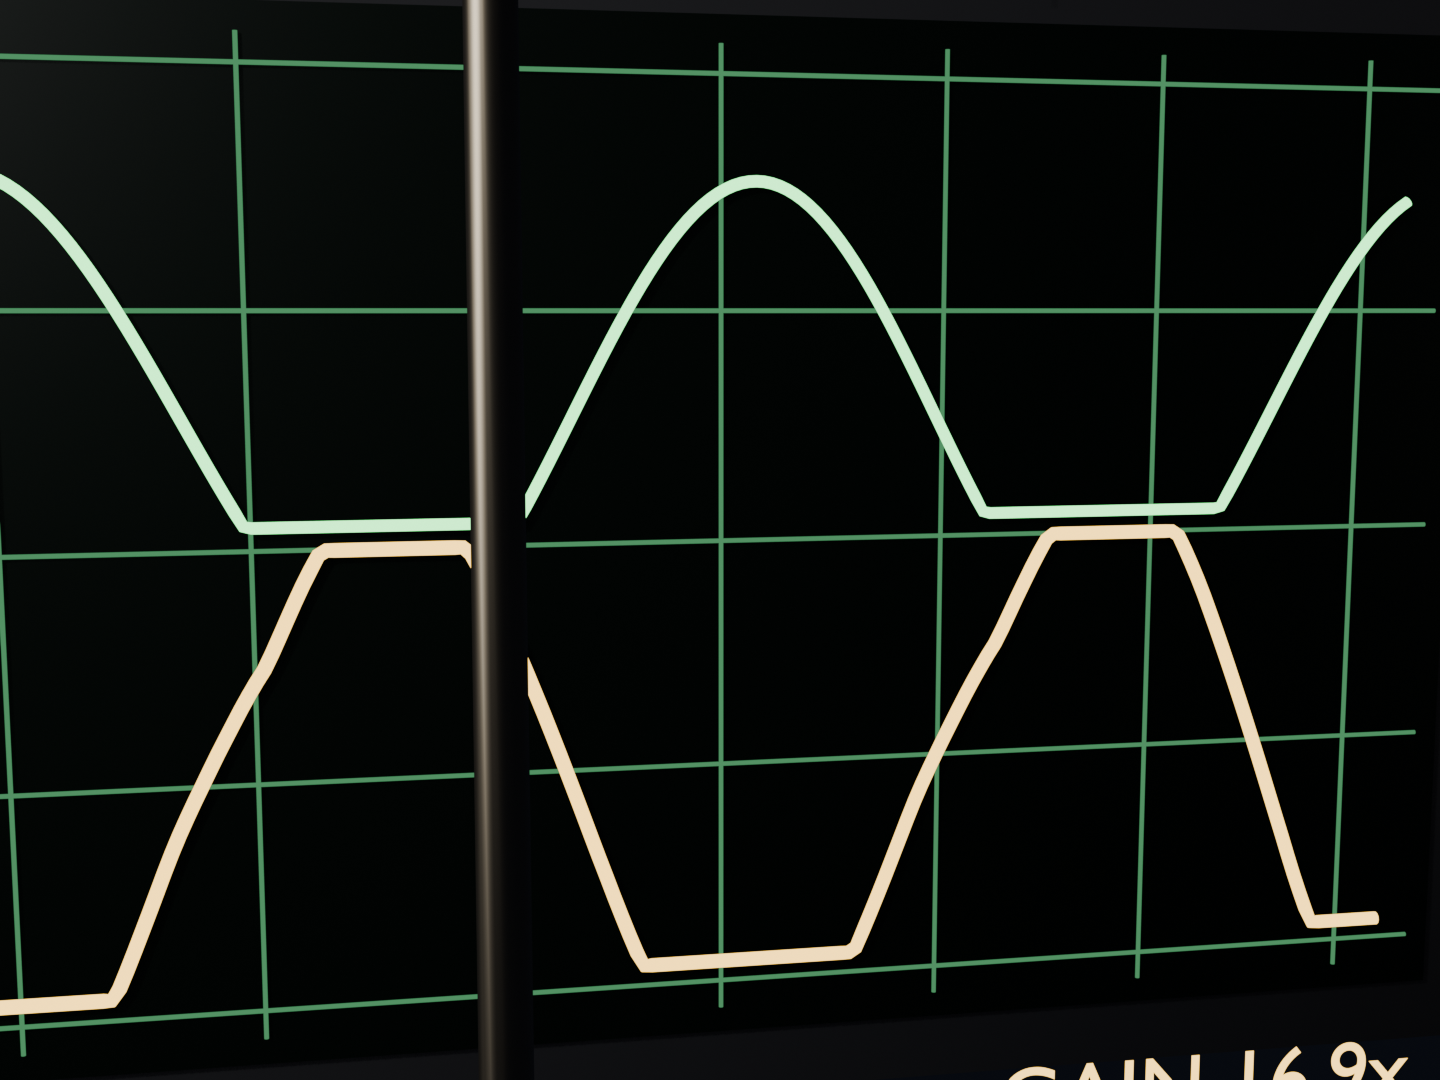
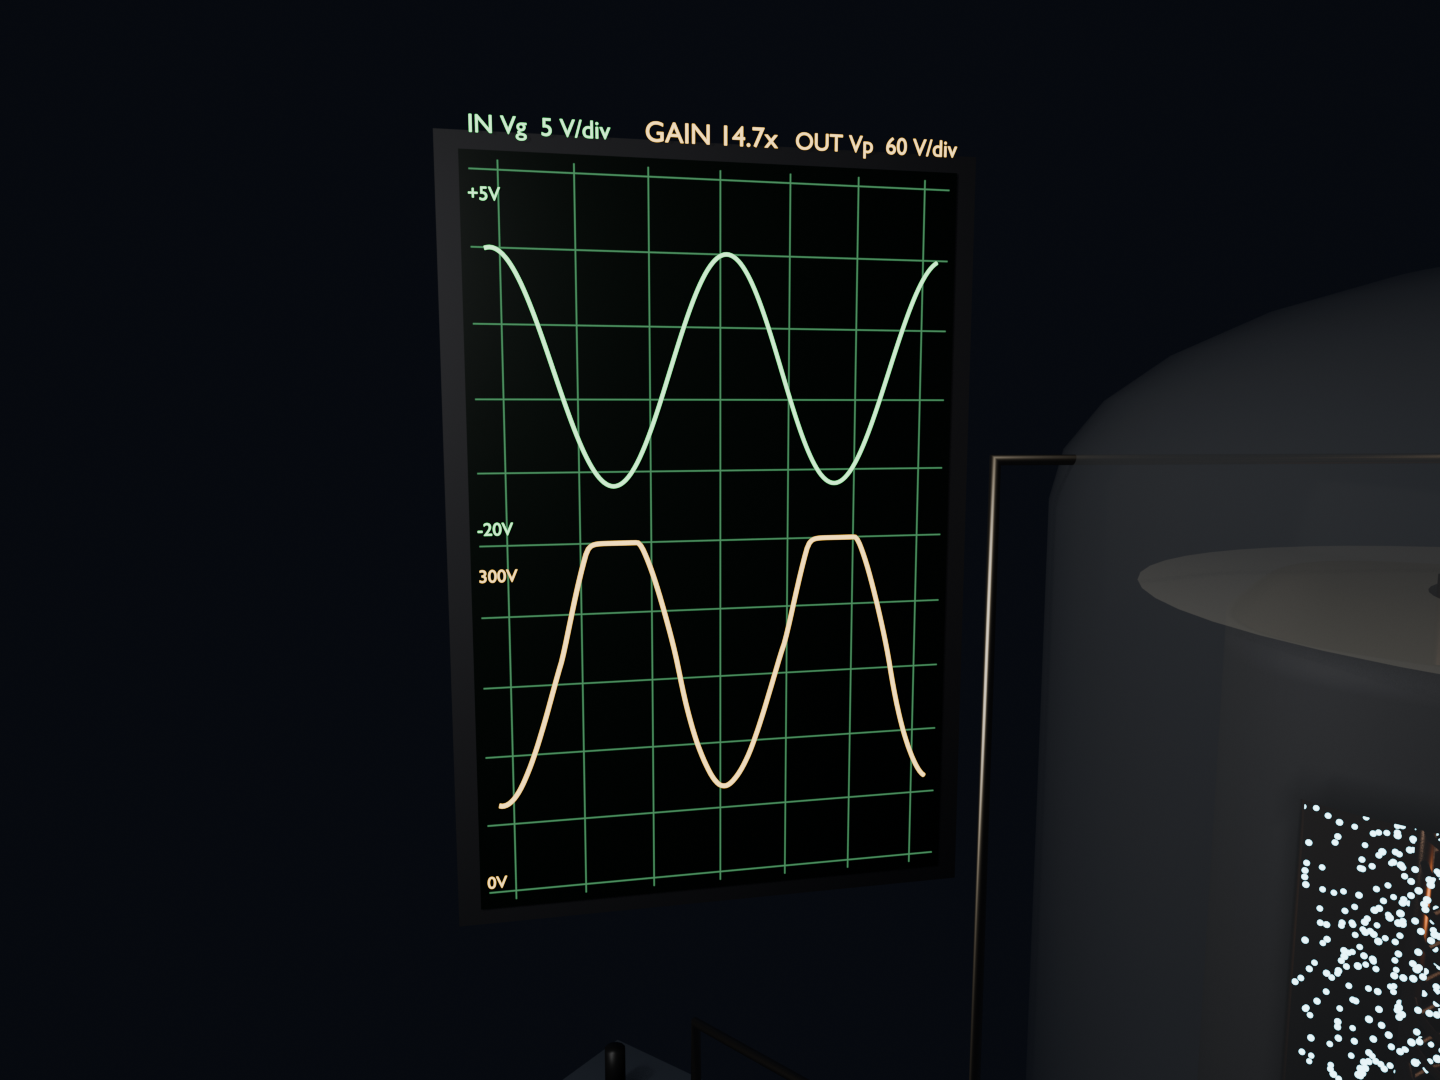
Enlarge scope to 10 divisions with auto-ranging output channel
The output trace could clip off the bottom of the old 4-row screen. The
screen now has 10 grid-aligned divisions split at the center line: input
covers -20..+5 V at 5 V/div on top, output covers the full supply range on
the bottom -- auto-ranging to 0-300 V (60 V/div) when B+ <= 300 and
0-500 V (100 V/div) above, with the on-screen V/div label and axis markers
switching to match. Axis markers sit in the left column clear of the tube,
GAIN moved to the top row, and the generator-to-grid wire is rerouted so it
no longer crosses the taller screen. Clipping still re-shot at -8 V bias
showing true cutoff flat-tops pinned at the 300 V line.

Changed region(s): [[0.0, 0.0, 1.0, 1.0], [0.375, 0.9167, 0.4062, 0.9472]]

diff --git a/amplifier/amplifier_sim.py b/amplifier/amplifier_sim.py
@@ -279,28 +279,29 @@ def _build_scope():
     root = _ob("ScopeRoot")
     if root is None:
         root = _link(bpy.data.objects.new(PREFIX + "ScopeRoot", None))
-    root.location = (-3.9, 0.9, 0.85)
+    root.location = (-3.9, 0.9, 1.15)
     root.rotation_euler = (0.0, 0.0, math.radians(48.0))  # face the bench camera
 
-    body = _box("ScopeBody", (3.05, 0.24, 2.05), (0, 0.14, 0),
+    body = _box("ScopeBody", (3.05, 0.24, 4.40), (0, 0.14, 0),
                 _principled("MatScopeBody", (0.10, 0.10, 0.11), rough=0.55))
     body.parent = root
     screen = _pydata_obj("ScopeScreen",
-                         [(-1.4, 0, -0.9), (1.4, 0, -0.9),
-                          (1.4, 0, 0.9), (-1.4, 0, 0.9)],
+                         [(-1.4, 0, -2.1), (1.4, 0, -2.1),
+                          (1.4, 0, 2.1), (-1.4, 0, 2.1)],
                          [(0, 1, 2, 3)])
     screen.parent = root
     screen.data.materials.append(
         _principled("MatScreen", (0.008, 0.02, 0.012), rough=0.4))
 
-    # graticule: one curve object, many 2-point splines
+    # graticule: 10 rows. Top 5 = input, -20..+5 V at 5 V/div; bottom 5 =
+    # output, auto-ranged 0-300 or 0-500 V (see _push_traces/_upd_bplus).
     cu = bpy.data.curves.new(PREFIX + "Graticule", 'CURVE')
     cu.dimensions = '3D'
     cu.bevel_depth = 0.004
-    lines = [((x, -0.01, -0.85), (x, -0.01, 0.85))
+    lines = [((x, -0.01, -2.05), (x, -0.01, 2.05))
              for x in np.arange(-1.2, 1.21, 0.4)]
     lines += [((-1.35, -0.01, z), (1.35, -0.01, z))
-              for z in np.arange(-0.8, 0.81, 0.4)]
+              for z in np.arange(-2.0, 2.01, 0.4)]
     for a, b in lines:
         sp = cu.splines.new('POLY')
         sp.points.add(1)
@@ -321,12 +322,24 @@ def _build_scope():
         tr.data.materials.append(_emission(matname, color, 4.0))
 
     rot_txt = (math.radians(90), 0, 0)
-    _text("ScopeLblIn", "IN Vg  8 V/div", 0.14, (-1.35, -0.03, 0.98), rot_txt,
-          _emission("MatTraceIn", (0.2, 1.0, 0.3), 4.0), parent=root)
-    _text("ScopeLblOut", "OUT Vp  100 V/div", 0.14, (0.12, -0.03, 0.98), rot_txt,
-          _emission("MatTraceOut", (1.0, 0.6, 0.12), 4.0), parent=root)
-    _text("ScopeGain", "GAIN --", 0.17, (0.52, -0.03, -1.12), rot_txt,
-          _emission("MatTraceOut", (1.0, 0.6, 0.12), 4.0), parent=root)
+    green = _emission("MatTraceIn", (0.2, 1.0, 0.3), 4.0)
+    amber = _emission("MatTraceOut", (1.0, 0.6, 0.12), 4.0)
+    _text("ScopeLblIn", "IN Vg  5 V/div", 0.13, (-1.35, -0.03, 2.18), rot_txt,
+          green, parent=root)
+    _text("ScopeGain", "GAIN --", 0.15, (-0.42, -0.03, 2.18), rot_txt,
+          amber, parent=root)
+    _text("ScopeLblOut", "OUT Vp  100 V/div", 0.13, (0.42, -0.03, 2.18), rot_txt,
+          amber, parent=root)
+    # axis markers, left column (clear of the tube from the bench camera);
+    # the shared center line is IN -20 V and OUT 500 V
+    _text("ScopeMkInHi", "+5V", 0.10, (-1.36, -0.02, 1.84), rot_txt,
+          green, parent=root)
+    _text("ScopeMkInLo", "-20V", 0.10, (-1.36, -0.02, 0.06), rot_txt,
+          green, parent=root)
+    _text("ScopeMkOutHi", "500V", 0.10, (-1.36, -0.02, -0.20), rot_txt,
+          amber, parent=root)
+    _text("ScopeMkOutLo", "0V", 0.10, (-1.36, -0.02, -1.97), rot_txt,
+          amber, parent=root)
 
 
 # resistor color code, digits 0-9
@@ -356,6 +369,13 @@ def _upd_bplus(self, context):
     ob = _ob("PSUVal")
     if ob:
         ob.data.body = f"{self.amp_bplus:.0f} V"
+    # OUT channel auto-range: 0-300 V below 300 V B+, 0-500 V above
+    vmax = 300 if self.amp_bplus <= 300.0 else 500
+    for name, want in (("ScopeLblOut", f"OUT Vp  {vmax // 5} V/div"),
+                       ("ScopeMkOutHi", f"{vmax}V")):
+        t = _ob(name)
+        if t and t.data.body != want:
+            t.data.body = want
 
 
 def _build_bench():
@@ -413,7 +433,8 @@ def _build_bench():
                        (2.95, 0.35, -0.60)],
         "WirePSUGnd": [(3.45, 0.35, -0.62), (3.45, 0.35, -2.35),
                        (1.68, 0.20, -2.35), (1.62, 0.20, -2.05)],
-        "WireGenGrid": [(-2.78, -0.80, -0.85), (-2.78, -0.80, 1.75),
+        "WireGenGrid": [(-2.78, -0.80, -0.85), (-2.78, -0.80, -0.55),
+                        (-1.55, -0.95, -0.55), (-1.55, -0.95, 1.75),
                         (-0.45, 0.0, 1.75), (-0.45, 0.0, 1.42)],
         "WireGenGnd": [(-3.22, -0.80, -0.85), (-3.22, -0.80, -2.35),
                        (-1.68, -0.20, -2.35), (-1.62, -0.20, -2.05)],
@@ -619,20 +640,24 @@ def _push_draw():
 def _push_traces():
     """Write the rolling Vg/Vp buffers into the two scope trace curves.
 
-    Per-channel scales like a real scope (graticule div = 0.4 units):
-    IN 8 V/div, OUT 100 V/div; the on-screen GAIN readout carries the ratio.
+    Absolute scales on a 10-division screen (div = 0.4 units):
+    IN  top half, 5 V/div, covering -20..+5 V (0 V ref on the +1.6 line);
+    OUT bottom half auto-ranges with B+: 0-300 V (60 V/div) when B+ <= 300,
+    else 0-500 V (100 V/div). 0 V is the bottom line; the bands meet at the
+    center line. _upd_bplus() keeps the on-screen labels in step.
     """
     bp = float(getattr(_scene(), "amp_bplus", 300.0))
-    for name, buf, z0, upv, center in (
-            ("TraceIn", _S["vg_buf"], 0.42, 0.05, 0.0),        # 8 V/div
-            ("TraceOut", _S["vp_buf"], -0.38, 0.004, bp / 2)):  # 100 V/div
+    out_vmax = 300.0 if bp <= 300.0 else 500.0
+    for name, buf, z0, upv, lo, hi in (
+            ("TraceIn", _S["vg_buf"], 1.6, 0.08, 0.0, 2.0),           # 5 V/div
+            ("TraceOut", _S["vp_buf"], -2.0, 2.0 / out_vmax, -2.0, 0.0)):
         ob = _ob(name)
         if ob is None:
             continue
         arr = np.empty((SCOPE_N, 4), np.float32)
         arr[:, 0] = SCOPE_XS
         arr[:, 1] = -0.02
-        arr[:, 2] = z0 + np.clip((buf - center) * upv, -0.38, 0.38)
+        arr[:, 2] = np.clip(z0 + buf * upv, lo, hi)
         arr[:, 3] = 1.0
         sp = ob.data.splines[0]
         sp.points.foreach_set("co", arr.ravel())
@@ -982,7 +1007,7 @@ def register_ui():
     _cam("Cam_Top", (0, 0, 1.30), ortho=2.7, clip=0.003)
     _cam("Cam_Inside", (0.52, 0.52, 0.05), target=(-0.1, -0.1, 0.0),
          lens=13.0, clip=0.004)
-    _cam("Cam_Over", (6.4, -7.4, 3.4), target=(-0.1, 0.15, 0.0), lens=38.0)
+    _cam("Cam_Over", (6.6, -7.6, 3.6), target=(-0.25, 0.2, 0.25), lens=34.0)
     _scene().camera = _ob("Cam_Over")
 
     if not _ob("Meter"):

diff --git a/amplifier/README.md b/amplifier/README.md
@@ -38,10 +38,13 @@ operating point, gain, phase inversion, cutoff and saturation clipping —
 | Signal amplitude | 0–8 Vpk | Small = clean amplification; large = clipping both ways. |
 | Grid bias / DC offset | −15…+5 V | The operating point. −4 V ≈ class-A center; −12 V ≈ beyond cutoff (class-C-ish); 0 V+ → grid current. |
 
-The **oscilloscope** shows the green input (8 V/div) and the amber output
-(100 V/div, centered on B+/2) with the measured **GAIN** readout on the
-bezel — note the output is **inverted** (common-cathode stage). The meter
-under the tube shows B+, Vp, Ip, Vg, and gain, all KVL-consistent:
+The **oscilloscope** has a 10-division screen split at the center line:
+top half is the green input at **5 V/div covering −20…+5 V** (the full bias
+slider range); the amber output **auto-ranges with B+** — 0–300 V
+(60 V/div) when B+ ≤ 300 V, 0–500 V (100 V/div) above — so the waveform
+always uses the screen well and neither trace can run off screen. The measured **GAIN** shows top-center —
+note the output is **inverted** (common-cathode stage). The meter under the
+tube shows B+, Vp, Ip, Vg, and gain, all KVL-consistent:
 `B+ − Vp = Ip·R_L` always checks out.
 
 ## Experiments for students
@@ -51,7 +54,8 @@ under the tube shows B+, Vp, Ip, Vg, and gain, all KVL-consistent:
    glide onto ~140 V as the electron stream builds: the load line solving
    itself. Verify Ohm's law from the meter numbers.
 3. **Gain**: amplitude 1 V → output ~13× bigger, inverted. Confirm with the
-   graticule: input ~¼ div, output ~1.3 div at the posted V/div.
+   graticule: input swings 0.4 div at 5 V/div, output ~0.26 div at
+   100 V/div → (0.26·100)/(0.4·5) ≈ 13.
 4. **Bias classes**: drag DC offset to −12 V (output only on positive input
    peaks) then toward 0 V (grid-current sparkle on the wires; top of the
    swing compresses).